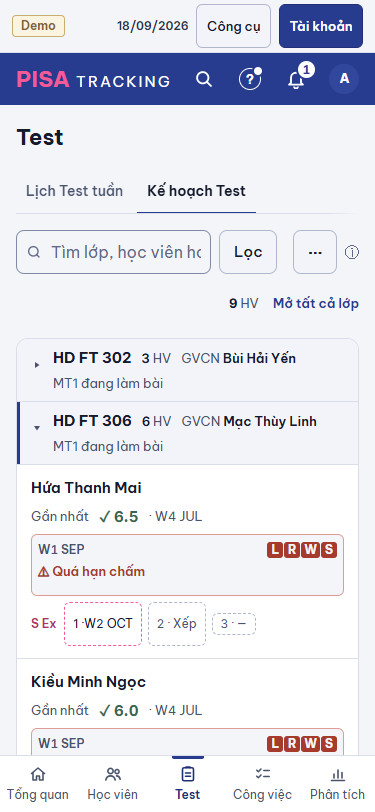
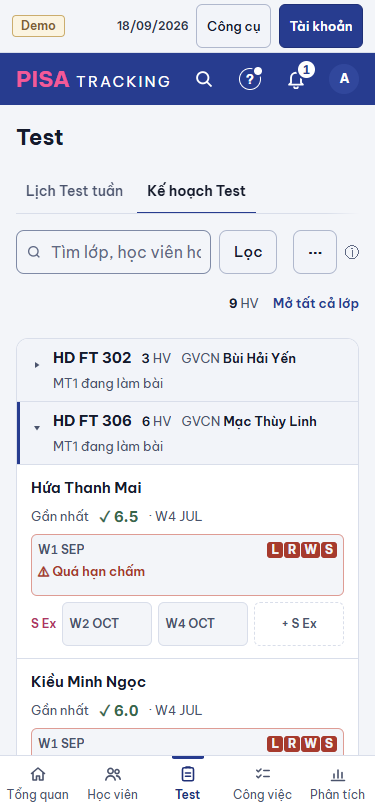
SEX-HANG b: mỗi S Ex một ô dẹt thẳng cột MT (chủ SP 06/11)

Changed region(s): [[0.1467, 0.7389, 0.616, 0.8005], [0.7627, 0.7389, 0.8507, 0.7697], [0.6453, 0.7389, 0.6747, 0.8005]]

diff --git a/web/src/modules/test/keHoach/HangSEx.tsx b/web/src/modules/test/keHoach/HangSEx.tsx
@@ -3,37 +3,39 @@ import { fmtBand } from '../../../lib/format.ts';
 import { t } from '@shared/i18n/index.ts';
 import type { DongSEx } from './kieu.ts';
 
-/** Số ô luôn hiện (chủ SP 06/11 "S Ex 1 2 3"); em có nhiều lượt hơn thì hiện đủ. */
-const SO_O = 3;
-
 /**
- * HÀNG S EX MẢNH dưới hàng MT của một em (chủ SP 06/11: "một thanh nhỏ bên dưới hàng của MT … ghi S Ex 1 2 3 và tuần", không mặc định gì):
- * `S Ex · 1 W2 NOV · 2 — · 3 —`. Số = thứ tự lượt theo tuần. Ô có lượt bấm mở hộp S Ex (`HopSEx`: dời / xoá + Hoàn tác cho QL / Admin, chấm cho
- * người chấm được) — máy chủ kiểm quyền. Ô trống KẾ TIẾP là nút "Xếp" khi `onThem` (người sửa được lịch Test); ô trống khác "—". Không quyền: chỉ xem.
+ * Ô S EX DẸT (chủ SP 06/11: "S Ex cũng để một box dẹt nhỏ ngang cùng với từng đợt MT chính nhé") — hàng dưới hàng MT, mỗi lượt một ô dẹt (26 px)
+ * thẳng cột MT: S Ex 1 dưới MT1, 2 dưới MT2… (số = thứ tự theo tuần, không phải suất). Ô có lượt: tuần (+ band), bấm mở hộp S Ex (`HopSEx`:
+ * dời, Xoá + Hoàn tác, chấm) khi sửa / chấm được. Ô trống: "+ S Ex" khi `onThem` (người sửa được lịch Test — máy chủ kiểm), không thì trống nhạt.
  * Dữ liệu = `sEx` lưới đã nạp (không câu đọc thêm).
  */
-export function HangSEx({ ds, onMo, onThem }: { ds: readonly DongSEx[]; onMo?: (d: DongSEx) => void; onThem?: () => void }) {
-  const xep = [...ds].sort((a, b) => a.tuan.localeCompare(b.tuan) || a.id - b.id);
-  const so = Math.max(SO_O, xep.length);
+export const sapSEx = (ds: readonly DongSEx[]) => [...ds].sort((a, b) => a.tuan.localeCompare(b.tuan) || a.id - b.id);
+
+export function OSEx({ x, so, onMo, onThem }: { x: DongSEx | null; so: number; onMo?: (d: DongSEx) => void; onThem?: () => void }) {
+  if (!x) {
+    return onThem
+      ? <button type="button" className="o-sex o-sex-trong o-sex-them" aria-label={t('Xếp S Ex {n}', { n: so })} onClick={onThem}>{t('+ S Ex')}</button>
+      : <span className="o-sex o-sex-trong" aria-label={t('S Ex {n} chưa xếp', { n: so })} />;
+  }
+  const tuan = tuanLich(x.tuan);
+  const doc = [`${t('S Ex')} ${so}`, tuan, x.diem !== null ? fmtBand(x.diem) : t('chờ chấm')].join(' · ');
+  const title = [x.ngay && `${x.ngay.slice(8, 10)}/${x.ngay.slice(5, 7)}`, x.themBoi && t('{ai} thêm', { ai: x.themBoi }), x.nguoiCham && t('{ai} chấm', { ai: x.nguoiCham }), x.nhanXet]
+    .filter(Boolean).join('\n') || undefined;
+  const chu = <><span className="o-sex-tuan">{tuan}</span>{x.diem !== null && <b className="tabular-nums">{fmtBand(x.diem)}</b>}</>;
+  return onMo && (x.sua || x.cham)
+    ? <button type="button" className="o-sex" aria-label={doc} title={title} onClick={() => onMo(x)}>{chu}</button>
+    : <span className="o-sex" aria-label={doc} title={title}>{chu}</span>;
+}
+
+/** 375: thẻ em không có cột MT — chữ "S Ex" nhỏ + các ô dẹt chia đều (tối thiểu 3). */
+export function HangSExThe({ ds, onMo, onThem }: { ds: readonly DongSEx[]; onMo?: (d: DongSEx) => void; onThem?: () => void }) {
+  const xep = sapSEx(ds);
   return (
     <div className="hang-sex" role="group" aria-label={t('S Ex')}>
       <b className="hang-sex-nhan">{t('S Ex')}</b>
-      {Array.from({ length: so }, (_, i) => {
-        const x = xep[i];
-        if (!x) {
-          return i === xep.length && onThem
-            ? <button key={`o${i}`} type="button" className="hang-sex-o hang-sex-trong" aria-label={t('Xếp S Ex {n}', { n: i + 1 })} onClick={onThem}>{i + 1} · {t('Xếp')}</button>
-            : <span key={`o${i}`} className="hang-sex-o hang-sex-trong" aria-label={t('S Ex {n} chưa xếp', { n: i + 1 })}>{i + 1} · —</span>;
-        }
-        const tuan = tuanLich(x.tuan);
-        const chu = <>{i + 1} · <span className="tabular-nums">{tuan}{x.diem !== null ? ` · ${fmtBand(x.diem)}` : ''}</span></>;
-        const doc = [`${t('S Ex')} ${i + 1}`, tuan, x.diem !== null ? fmtBand(x.diem) : t('chờ chấm')].join(' · ');
-        const title = [x.ngay && `${x.ngay.slice(8, 10)}/${x.ngay.slice(5, 7)}`, x.themBoi && t('{ai} thêm', { ai: x.themBoi }), x.nguoiCham && t('{ai} chấm', { ai: x.nguoiCham }), x.nhanXet]
-          .filter(Boolean).join('\n') || undefined;
-        return onMo && (x.sua || x.cham)
-          ? <button key={`x${x.id}`} type="button" className="hang-sex-o" aria-label={doc} title={title} onClick={() => onMo(x)}>{chu}</button>
-          : <span key={`x${x.id}`} className="hang-sex-o" aria-label={doc} title={title}>{chu}</span>;
-      })}
+      {Array.from({ length: Math.max(3, xep.length) }, (_, i) => (
+        <OSEx key={xep[i] ? `x${xep[i].id}` : `o${i}`} x={xep[i] ?? null} so={i + 1} onMo={onMo} onThem={onThem} />
+      ))}
     </div>
   );
 }

diff --git a/web/src/modules/test/keHoach/LuoiKeHoach.tsx b/web/src/modules/test/keHoach/LuoiKeHoach.tsx
@@ -12,7 +12,7 @@ import { HopKyNang } from './HopKyNang.tsx';
 import { HopKhoiPhucMt } from './HopKhoiPhucKetQua.tsx';
 import { GhiChuTaiCho } from './GhiChuLichThi.tsx';
 import { HopSEx } from './HopSEx.tsx';
-import { HangSEx } from './HangSEx.tsx';
+import { HangSExThe, OSEx, sapSEx } from './HangSEx.tsx';
 import { Menu } from '../../../ui/Menu.tsx';
 import { ODiem } from '../../../ui/ODiem.tsx';
 import { useDienThoai } from '../../../ui/TheDong.tsx';
@@ -158,7 +158,7 @@ export function LuoiKeHoach({ loai, data, onReload, onHienDien, chiChuaCoKe = fa
                 ) : null}
               </div>
               {/* Chủ SP 06/11: hàng S Ex mảnh dưới ô MT (375). */}
-              <HangSEx ds={h.sEx ?? []} onMo={(x) => setSEx({ hang: h, dong: x })} onThem={chiXem ? undefined : () => setSEx({ hang: h, dong: null })} />
+              <HangSExThe ds={h.sEx ?? []} onMo={(x) => setSEx({ hang: h, dong: x })} onThem={chiXem ? undefined : () => setSEx({ hang: h, dong: null })} />
             </div>
           );
         })}
@@ -288,15 +288,27 @@ export function LuoiKeHoach({ loai, data, onReload, onHienDien, chiChuaCoKe = fa
               <td className="kh-td" aria-hidden />
             </tr>
             {/* Chủ SP 06/11: hàng S Ex mảnh ngay dưới hàng MT (thay chip S Ex ở cột "Thêm"); mọi người thấy, chỉ người sửa lịch Test xếp. */}
-            {loai === 'ft' && (
-              <tr className={`kh-hang-sex ${hvChon === h.studentId ? 'row-active' : ''}`}>
-                <td className="kh-td sticky-col" aria-hidden />
-                <td className="kh-td" colSpan={cots.length + (chiXem ? 0 : 1) + 1}>
-                  <HangSEx ds={(h as HangFT).sEx ?? []} onMo={(x) => setSEx({ hang: h as HangFT, dong: x })}
-                    onThem={chiXem ? undefined : () => setSEx({ hang: h as HangFT, dong: null })} />
-                </td>
-              </tr>
-            )}
+            {loai === 'ft' && (() => {
+              /* Chủ SP 06/11: mỗi S Ex một ô dẹt thẳng cột MT (S Ex 1 dưới MT1…); lượt nhiều hơn số cột → dồn dưới ô cuối. */
+              const xep = sapSEx((h as HangFT).sEx ?? []);
+              const mo = (x: DongSEx) => setSEx({ hang: h as HangFT, dong: x });
+              const them = chiXem ? undefined : () => setSEx({ hang: h as HangFT, dong: null });
+              return (
+                <tr className={`kh-hang-sex ${hvChon === h.studentId ? 'row-active' : ''}`}>
+                  <td className="kh-td sticky-col"><span className="hang-sex-nhan">{t('S Ex')}</span></td>
+                  {cots.map((c, ci) => (
+                    <td key={c.key} className="kh-td">
+                      <div className="flex flex-col gap-1">
+                        <OSEx x={xep[ci] ?? null} so={ci + 1} onMo={mo} onThem={them} />
+                        {ci === cots.length - 1 && xep.slice(cots.length).map((x, k) => <OSEx key={x.id} x={x} so={cots.length + k + 1} onMo={mo} />)}
+                      </div>
+                    </td>
+                  ))}
+                  {!chiXem && <td className="kh-td" aria-hidden />}
+                  <td className="kh-td" aria-hidden />
+                </tr>
+              );
+            })()}
             </Fragment>
           ))}
         </tbody>

diff --git a/web/src/index.css b/web/src/index.css
@@ -500,14 +500,19 @@
   .kh-hang-co-sex > .kh-td { border-bottom: 0; }
   .kh-hang-sex > .kh-td { padding-top: 0; padding-bottom: 5px; }
   .kh-hang-sex:last-child > .kh-td { border-bottom: 0; }
-  .hang-sex { display: flex; flex-wrap: wrap; align-items: center; gap: 4px 6px; font-size: 12px; line-height: 1; }
-  .hang-sex-nhan { font-weight: 600; color: var(--hong-chu); margin-right: 2px; }
-  .hang-sex-o { display: inline-flex; align-items: center; height: 22px; padding: 0 8px; border: 1px dashed var(--hong); border-radius: 6px;
-    background: transparent; color: var(--text); font-size: 12px; white-space: nowrap; }
-  button.hang-sex-o { cursor: pointer; }
-  button.hang-sex-o:hover { background: var(--surface-2); }
-  .hang-sex-trong { border-color: var(--line-strong); color: var(--text-dim); }
-  @media (max-width: 639px) { button.hang-sex-o { min-height: 44px; } }
+  .hang-sex { display: grid; grid-template-columns: auto repeat(3, minmax(0, 1fr)); align-items: center; gap: 6px; }
+  .hang-sex-nhan { font-size: 12px; font-weight: 600; color: var(--hong-chu); }
+  .kh-hang-sex .sticky-col { vertical-align: middle; }
+  /* Ô dẹt S Ex: cùng dáng khung ô MT (.o-kh) nhưng mảnh — cao 26 px, một dòng tuần (+ band). */
+  .o-sex { display: flex; align-items: center; justify-content: space-between; gap: 6px; width: 100%; height: 26px; padding: 0 6px;
+    border: 1px solid var(--line); border-radius: 6px; background: var(--bg); color: var(--text); font-size: 12px; white-space: nowrap; text-align: left; }
+  .o-sex-tuan { color: var(--text-dim); font-weight: 600; font-variant-numeric: tabular-nums; }
+  button.o-sex { cursor: pointer; }
+  button.o-sex:hover { border-color: var(--accent-line); }
+  button.o-sex:focus-visible { outline: 2px solid var(--accent); outline-offset: 1px; }
+  .o-sex-trong { border-style: dashed; background: transparent; }
+  .o-sex-them { justify-content: center; color: var(--text-dim); font-weight: 600; }
+  @media (max-width: 639px) { button.o-sex { height: 44px; } }
   .o-kh { display: grid; align-content: start; gap: 3px; width: 100%; min-height: 62px; padding: 6px; border: 1px solid var(--line); border-radius: 6px;
     background: var(--bg); color: var(--text); text-align: left; cursor: pointer; }
   .o-kh:hover { border-color: var(--accent-line); }

diff --git a/server/src/tests/sexHang.tests.ts b/server/src/tests/sexHang.tests.ts
@@ -14,13 +14,14 @@ export async function runSexHangTests(t: any) {
   const { check, assert } = t;
   console.log('\nSEX-HANG — hàng S Ex mảnh dưới hàng MT (Kế hoạch Test)');
 
-  check('SH-1 · web: HangSEx 3 ô cố định, "Xếp" chỉ ô trống kế tiếp khi có onThem; lưới gắn hàng cho FT (1440 + 375), onThem chỉ khi không chiXem; chip S Ex rời cột Thêm', () => {
+  check('SH-1 · web: mỗi S Ex một ô dẹt THẲNG CỘT MT (S Ex i dưới cột MTi, dư dồn ô cuối); ô trống "+ S Ex" chỉ khi onThem (không chiXem), không thì trống nhạt; 375 thẻ ≥ 3 ô; chip S Ex rời cột Thêm', () => {
     const h = doc('web/src/modules/test/keHoach/HangSEx.tsx');
-    assert(/const SO_O = 3;/.test(h) && /i === xep\.length && onThem/.test(h), 'HangSEx: 3 ô, Xếp ô kế tiếp');
-    assert(/onMo && \(x\.sua \|\| x\.cham\)/.test(h), 'ô có lượt bấm được khi sửa hoặc chấm được');
+    assert(/return onThem\s*\?[\s\S]*?'\+ S Ex'/.test(h) && /o-sex o-sex-trong" aria-label/.test(h), 'ô trống: + S Ex / trống nhạt');
+    assert(/onMo && \(x\.sua \|\| x\.cham\)/.test(h) && /Math\.max\(3, xep\.length\)/.test(h), 'ô có lượt bấm khi sửa / chấm được; 375 ≥ 3 ô');
     const l = doc('web/src/modules/test/keHoach/LuoiKeHoach.tsx');
-    assert((l.match(/<HangSEx /g) ?? []).length === 2, 'hai chỗ: bảng 1440 + thẻ 375');
-    assert((l.match(/onThem=\{chiXem \? undefined :/g) ?? []).length === 2, 'Xếp chỉ khi không chỉ xem');
+    assert(/cots\.map\(\(c, ci\) => \([\s\S]*?<OSEx x=\{xep\[ci\] \?\? null\} so=\{ci \+ 1\}/.test(l), 'S Ex i dưới cột MT i');
+    assert(/xep\.slice\(cots\.length\)/.test(l), 'lượt dư dồn dưới ô cuối');
+    assert(/const them = chiXem \? undefined :/.test(l) && /onThem=\{chiXem \? undefined :/.test(l), '+ S Ex chỉ khi không chỉ xem (1440 + 375)');
     assert(!/border-\[var\(--hong\)\]/.test(l), 'chip S Ex cũ ở cột Thêm đã bỏ');
     assert((l.match(/<HopSEx /g) ?? []).length === 2, 'hộp S Ex có ở cả 1440 và 375');
   });

diff --git a/shared/i18n/en/sexHang.ts b/shared/i18n/en/sexHang.ts
@@ -2,7 +2,6 @@
 import type { Dich } from '../en.ts';
 
 export const EN_SEX_HANG = {
-  'Xếp': 'Schedule',
   'Xếp S Ex {n}': 'Schedule S Ex {n}',
   'S Ex {n} chưa xếp': 'S Ex {n} not scheduled',
 } satisfies Record<string, Dich>;

diff --git a/docs/anh/sex-hang/khop-khac.md b/docs/anh/sex-hang/khop-khac.md
@@ -8,19 +8,19 @@ Dữ liệu demo 18/09: QL Phạm Quang Anh (Hải Dương), lớp HD FT 306.
 
 | Phần | Cách |
 |---|---|
-| Hàng | dưới hàng MT mỗi em (lớp FT), cao 28 px (đo): `S Ex · 1 W2 OCT · 2 Xếp · 3 —` — số = thứ tự lượt theo tuần; có điểm thì `1 W2 OCT · 6.5`; em có > 3 lượt thì hiện đủ |
-| Xếp | ô trống KẾ TIẾP là nút "Xếp" (như "Xếp MTn" chỉ ở MT kế tiếp) → hộp S Ex sẵn có (`HopSEx`, chọn ngày `ONgay`) |
+| Hàng | dưới hàng MT mỗi em (lớp FT), chữ "S Ex" nhỏ ở cột tên; **mỗi lượt một ô DẸT** (cao 26 px, đo) cùng dáng khung ô MT, **thẳng cột và cùng rộng ô MT** (S Ex 1 dưới MT1, 2 dưới MT2…; đo: cùng x, cùng rộng 174 px). Ô có lượt ghi tuần (+ band); số = thứ tự theo tuần; lượt nhiều hơn số cột MT dồn dưới ô cuối. Chủ SP 06/11 (xem ảnh bản đầu): "S Ex cũng để một box dẹt nhỏ ngang cùng với từng đợt MT chính nhé" |
+| Xếp | ô trống ghi "+ S Ex" (người sửa được lịch Test) → hộp S Ex sẵn có (`HopSEx`, chọn ngày `ONgay`); chỉ xem: ô trống nhạt |
 | Dời / xoá | bấm ô có lượt → cùng hộp: đổi ngày, Xoá + **Hoàn tác** (máy chủ xoá mềm + khôi phục — đã có) |
 | Quyền | người sửa được lịch Test (QL · Admin đúng chi nhánh · Quản trị; GVCN lớp đó khi công tắc #1064 bật) — máy chủ `requireSuaLichTest` như cũ; người khác **chỉ xem** (không nút Xếp; ô có lượt chỉ mở khi chấm được — GV Speaking nhập điểm như cũ) |
-| 375 | cùng hàng trong thẻ em, ô cao 44 px |
+| 375 | thẻ em: "S Ex" + ≥ 3 ô dẹt chia đều (ô bấm cao 44 px) |
 | Dữ liệu | `sEx` lưới đã nạp (`sExCuaHv`, một lô cho cả lớp) — **không câu đọc thêm**, không đổi API, không đổi `tocDoDuong.ts` |
 
 ## Ảnh trước | sau
 
 | Nơi | 1440 tối | 375 sáng |
 |---|---|---|
-| Kế hoạch Test HD FT 306 (QL) | `truoc-kht-1440.png` · `sau-kht-1440.png` | `truoc-kht-375.png` · `sau-kht-375.png` |
-| Hộp S Ex mở từ ô "1 W2 OCT" | `sau-hop-sex-1440.png` | — |
+| Kế hoạch Test HD FT 306 (QL) | `truoc-kht-1440.png` · `sau-kht-1440.png` · `sau-kht-them-sex2-1440.png` (bấm "+ S Ex" ô 2 → W4 OCT) | `truoc-kht-375.png` · `sau-kht-375.png` |
+| Hộp S Ex mở từ ô có lượt | `sau-hop-sex-1440.png` | — |
 | GVCN khi công tắc tắt — chỉ xem (không "Xếp") | `sau-kht-gvcn-chi-xem-1440.png` | — |
 
 ## Thao tác TRƯỚC → SAU
